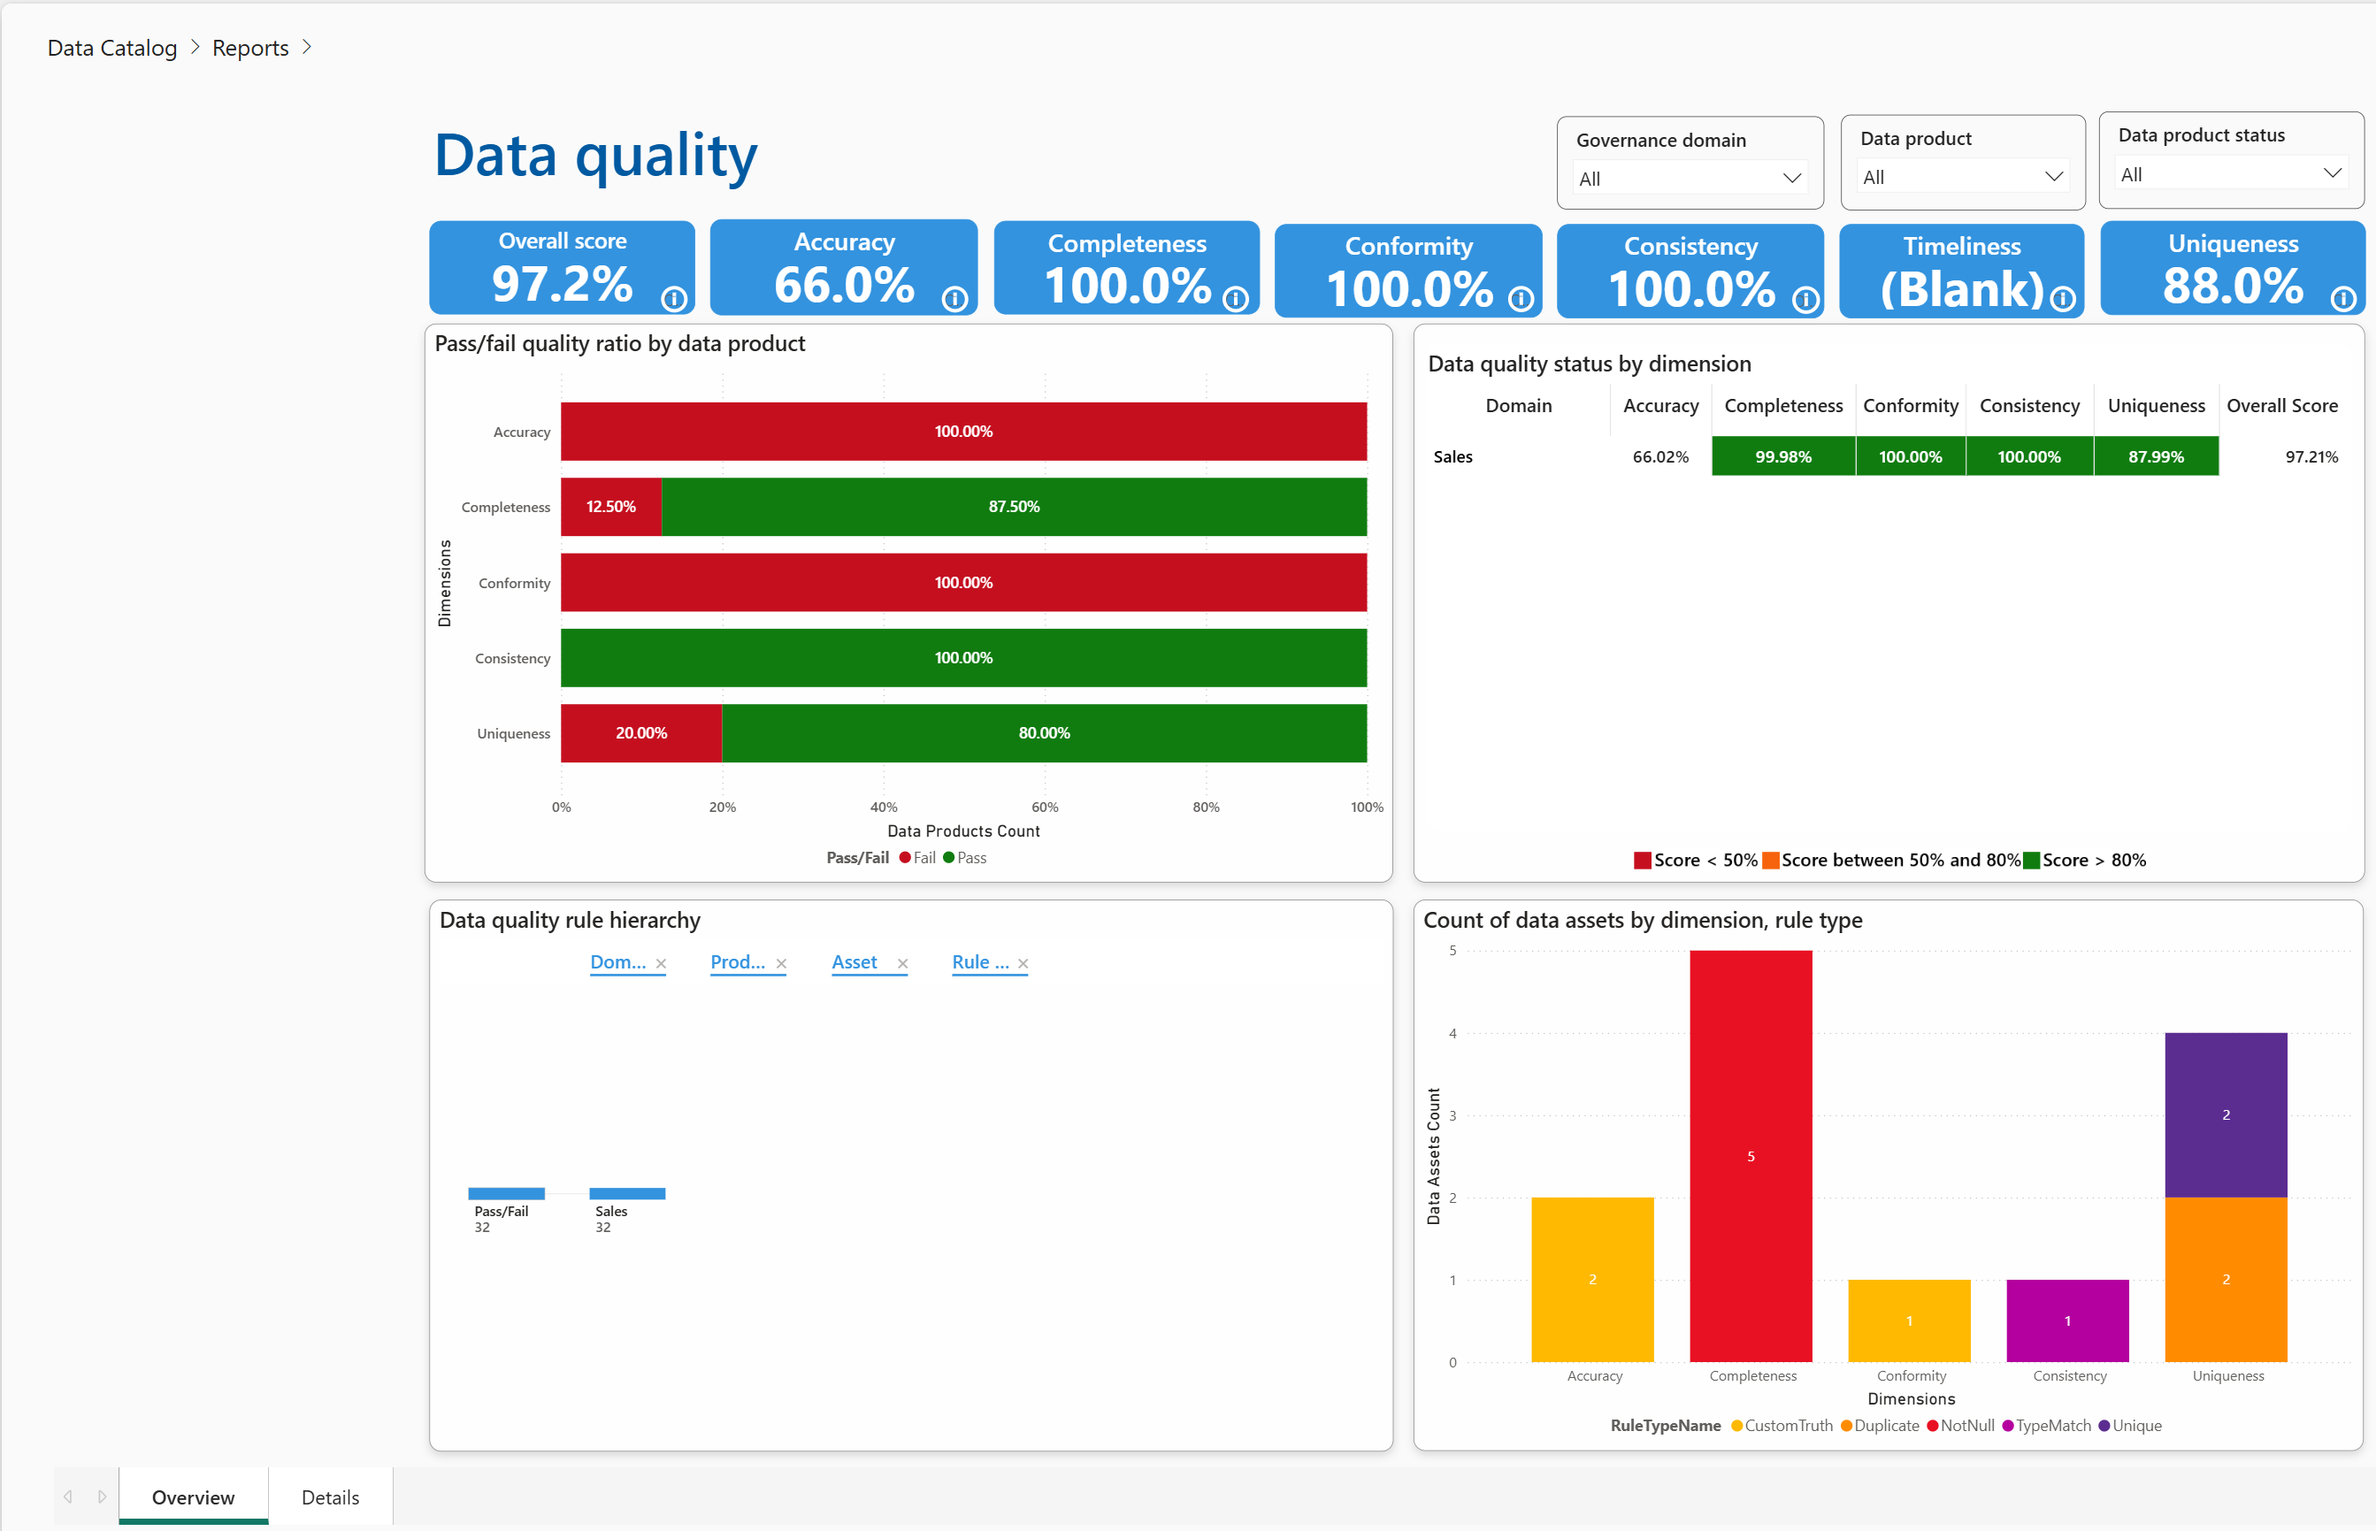
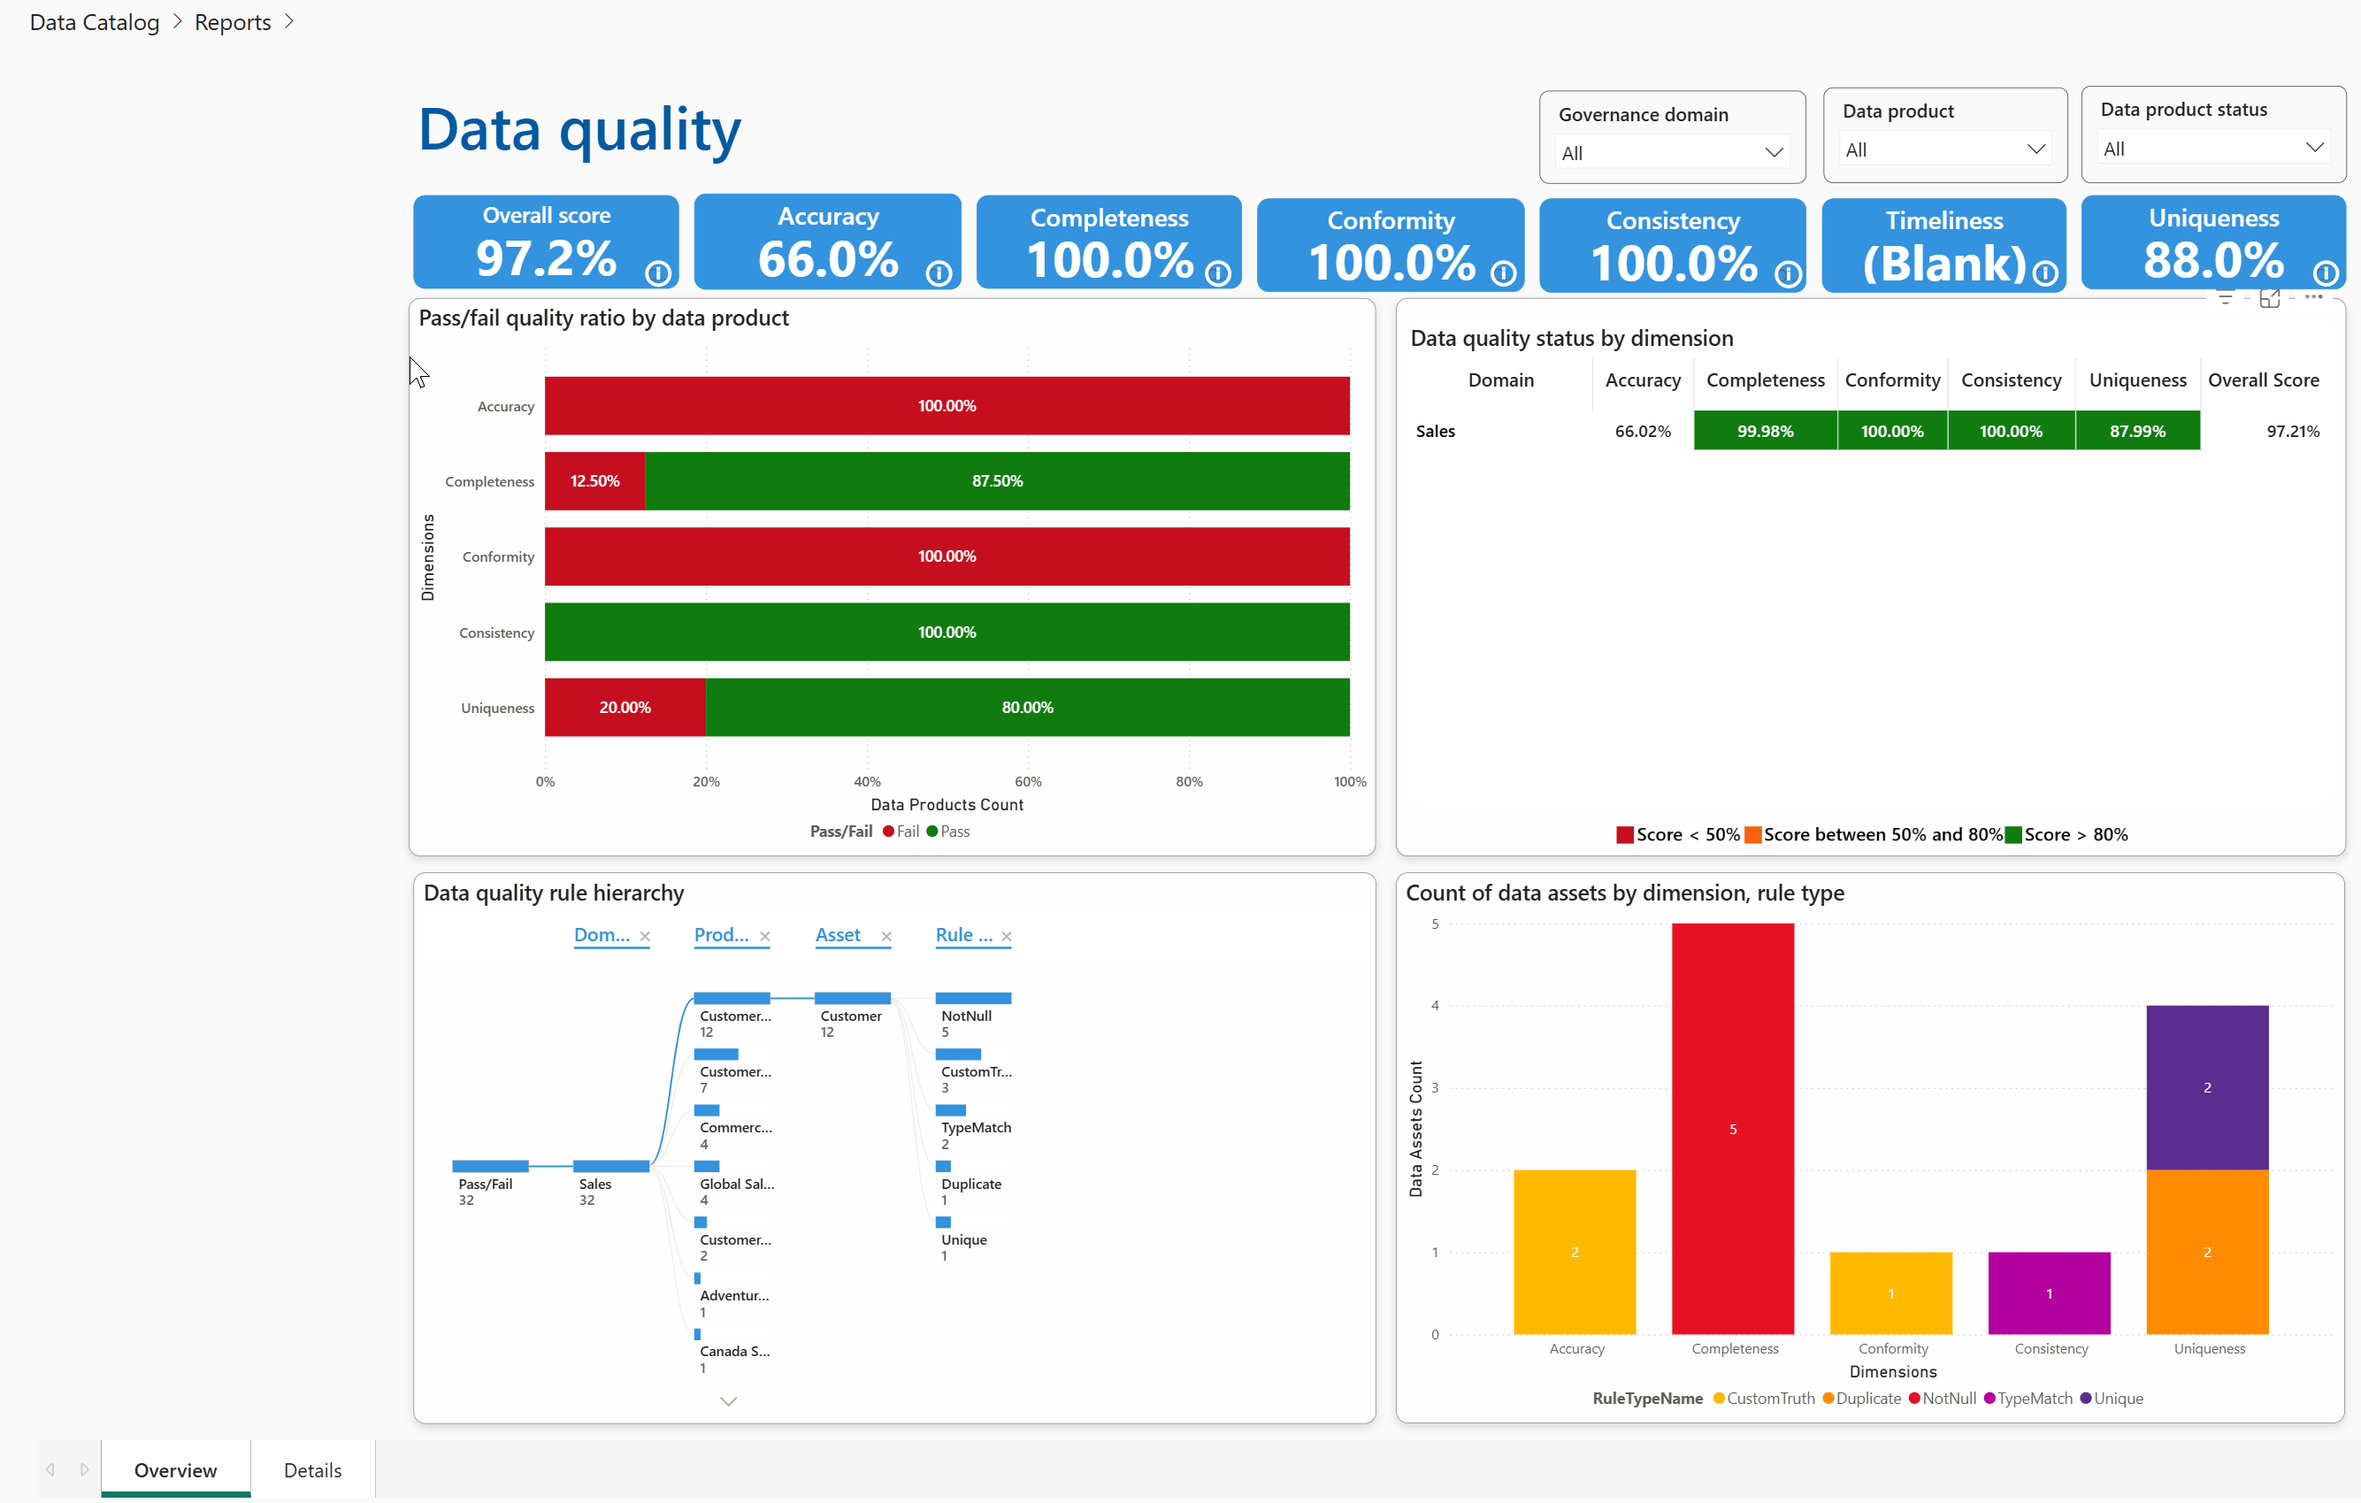
Modify data quality health details

diff --git a/Lab-11 - Health Management Reports.md b/Lab-11 - Health Management Reports.md
@@ -31,26 +31,33 @@ Of these 8 reports, 6 are legacy reports which have been prefixed with the word 
 ![Reports](./assets/reports.png)
 
 The reports are as follows:
-- Classic assets
-The Classic assets report provides an aggregated view of the assets in your data estate. It includes the number of assets(total, new , deleted), the number of assets with classifications, and the number of assets with sensitivity labels grouped by collection or source type. Drill-through capabilities are available to view the details of the assets.
+- **Classic assets**
 
-- Classic catalog adoption
-The purpose of the Classic Catalog Adoption Report in Microsoft Purview is to provide administrators with insights into the usage and adoption of the Microsoft Purview Data Catalog, helping them understand user activity, search behavior, feature utilization, and asset engagement.
+   The Classic assets report provides an aggregated view of the assets in your data estate. It includes the number of assets(total, new , deleted), the number of assets with classifications, and the number of assets with sensitivity labels grouped by collection or source type. Drill-through capabilities are available to view the details of the assets.
 
-- Classic classifications
-This report helps identify and track the types of data classified within the data estate, such as financial or government data, and shows trends over time. It includes information on the number of classified sources, files, and tables, as well as the top classifications applied accross the datamap. 
+- **Classic catalog adoption**
 
-- Classic data stewardship
-The purpose of the Data Stewardship Report in Microsoft Purview is to provide administrators with insights into the activities and effectiveness of data stewards within their organization. This report tracks the actions taken by data stewards, such as data classification, curation, completeness of the meta data.
+   The purpose of the Classic Catalog Adoption Report in Microsoft Purview is to provide administrators with insights into the usage and adoption of the Microsoft Purview Data Catalog, helping them understand user activity, search behavior, feature utilization, and asset engagement.
 
-- Classic glossary
-This report includes key performance indicators such as the total number of terms, the status of terms (e.g., draft, approved, expired), and the distribution of roles by users. It helps administrators understand the completeness of glossary terms by highlighting missing information, such as definitions, experts, or stewards, and provides a detailed view of terms attached to assets, aiding in effective data governance and management. This only takes into consideration the terms that are part of the classic glossary.
+- **Classic classifications**
 
-- Classic sensitivity labels
-This report tracks the number of labeled items, the types of sensitivity labels applied, and the trends over time. It helps administrators understand how data is being classified in terms of sensitivity, ensuring that sensitive information is properly protected and compliance requirements are met.
+   This report helps identify and track the types of data classified within the data estate, such as financial or government data, and shows trends over time. It includes information on the number of classified sources, files, and tables, as well as the top classifications applied accross the datamap. 
 
-- Data governance (preview)
-The new Data Governance Report in Microsoft Purview provides a data governance overview with insights into the health of your data estate based on the controls configured for:  
+- **Classic data stewardship**
+
+   The purpose of the Data Stewardship Report in Microsoft Purview is to provide administrators with insights into the activities and effectiveness of data stewards within their organization. This report tracks the actions taken by data stewards, such as data classification, curation, completeness of the meta data.
+
+- **Classic glossary**
+
+   This report includes key performance indicators such as the total number of terms, the status of terms (e.g., draft, approved, expired), and the distribution of roles by users. It helps administrators understand the completeness of glossary terms by highlighting missing information, such as definitions, experts, or stewards, and provides a detailed view of terms attached to assets, aiding in effective data governance and management. This only takes into consideration the terms that are part of the classic glossary.
+
+- **Classic sensitivity labels**
+
+   This report tracks the number of labeled items, the types of sensitivity labels applied, and the trends over time. It helps administrators understand how data is being classified in terms of sensitivity, ensuring that sensitive information is properly protected and compliance requirements are met.
+
+- **Data governance (preview)**
+
+   The new Data Governance Report in Microsoft Purview provides a data governance overview with insights into the health of your data estate based on the controls configured for:  
    - Access and use
    - Discoverability
    - Estate curation
@@ -60,8 +67,9 @@ The new Data Governance Report in Microsoft Purview provides a data governance o
    as well as deeper dive into the health of your data at from a  data product perspective looking at percentages of data products which have classifications, data assets, self-service access ,policies and glossary terms, owners and descriptions attached.
 
 
-- DQ health report (preview)
-The new Data Quality Health Report in Microsoft Purview provides insights into the health of your data estate based on the data quality rules configured for your data estate. 
+- **DQ health report (preview)**
+
+   The new Data Quality Health Report in Microsoft Purview provides insights into the health of your data estate based on the data quality rules configured for your data estate. 
 
    The overview page shows a quick snapshot of the Overall score, the accusracy, completeness, conformity, uniqueness, consistency and timeliness and uniqueness scores. The Details page provides a more detailed view of the data quality rule results and the data assets that are failing the rules.
 
@@ -100,7 +108,7 @@ Understanding which check have failed will allow you to take action to improve t
 
 
 ## Task 3: Utilizing Data Quality Health Report
-**⏰ Duration:** 30 minutes
+**⏰ Duration:** 15 minutes
 
 **🎯 Outcome:**  At the end of this session you would be able to effectively use the Data Quality Health Report to monitor and improve data quality. 
 
@@ -110,13 +118,27 @@ Understanding which check have failed will allow you to take action to improve t
 
 The Data Quality Health Report Overview page provides a snapshot of the health of your data estate based on the data quality rules configured for your data estate. At a glance you will be able to see the Overall score, the accusracy, completeness, conformity, uniqueness, consistency and timeliness and uniqueness scores.
 
+This can be filtered by the following:
+- Governance Domain
+- Data Product
+- Data Product Status (Pblished or Draft)
+
 ![Data Quality Health Report Overview](./assets/data-quality-health-report-overview.png)
 
-The data quality health report overview page contains the 4 visuals: 
-- Pass/fail quality ration by data product
+The data quality health report overview page contains the following 4 visuals: 
+- Pass/fail quality ratio by data product
+
+   In the image above you can see that all data products which have a rule for accuracy have failed this check. While all products which have been checked for consistency have passed.
+
+   **✨ Pro Tip:**  Hovering over the data points will provide more information about the number of data products and their pass/fail status.
 - Data quality status by dimension
+
+   This shows the data quality dimension scores for each governance domain.
 - Data quality rule hierarchy
-- Count of data assets by data assets, rute type
+
+This allows you to view the breakdown of Pass/Fail rates by domain, data product, data asset and rule type.
+
+- Count of data assets by data assets, rule type
 
 ### Understand the key metrics and insights provided in the Data Quality Health Report Details
 
@@ -124,7 +146,14 @@ The Data Quality Health Report Details page provides a more detailed view of the
 
 ![Data Quality Health Report Details](./assets/data-quality-health-report-details.png)
 
+The data quality health report details page contains 2 visuals:
+- Data quality rule results
 
+   This table shows the number of records which passed or failed each rule type for each data asset. 
+
+- Pass and fail record count by rule type
+   
+   The total number of records that have passed or failed each rule type.
 
 **⏸ Reflection:** 
 - How have these reports improved your understanding of your data's health?
